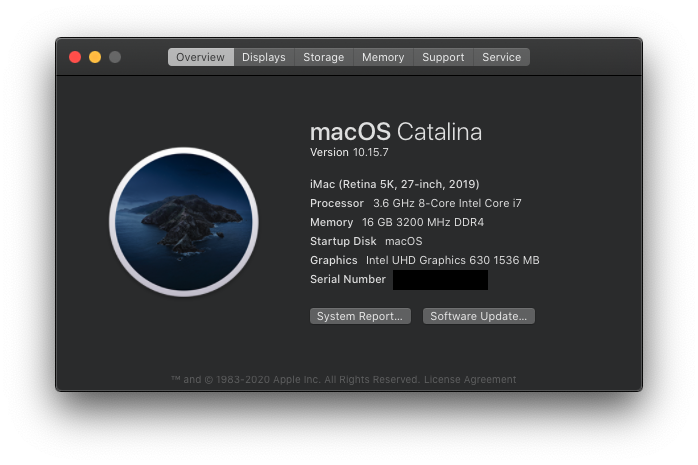
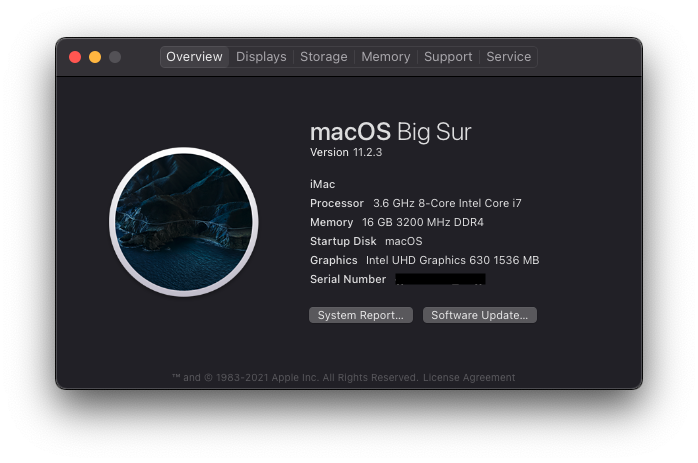
upgrade to big sur

diff --git a/README.md b/README.md
@@ -13,7 +13,7 @@ Don't use and trust any OpenCore files (drivers, kexts, etc.) that are not from 
 ## Software
 
 - OpenCore: 0.6.5
-- macOS: 10.5.7 (Catalina)
+- macOS: 11.2.3 (Big Sur)
 
 ## Hardware
 
